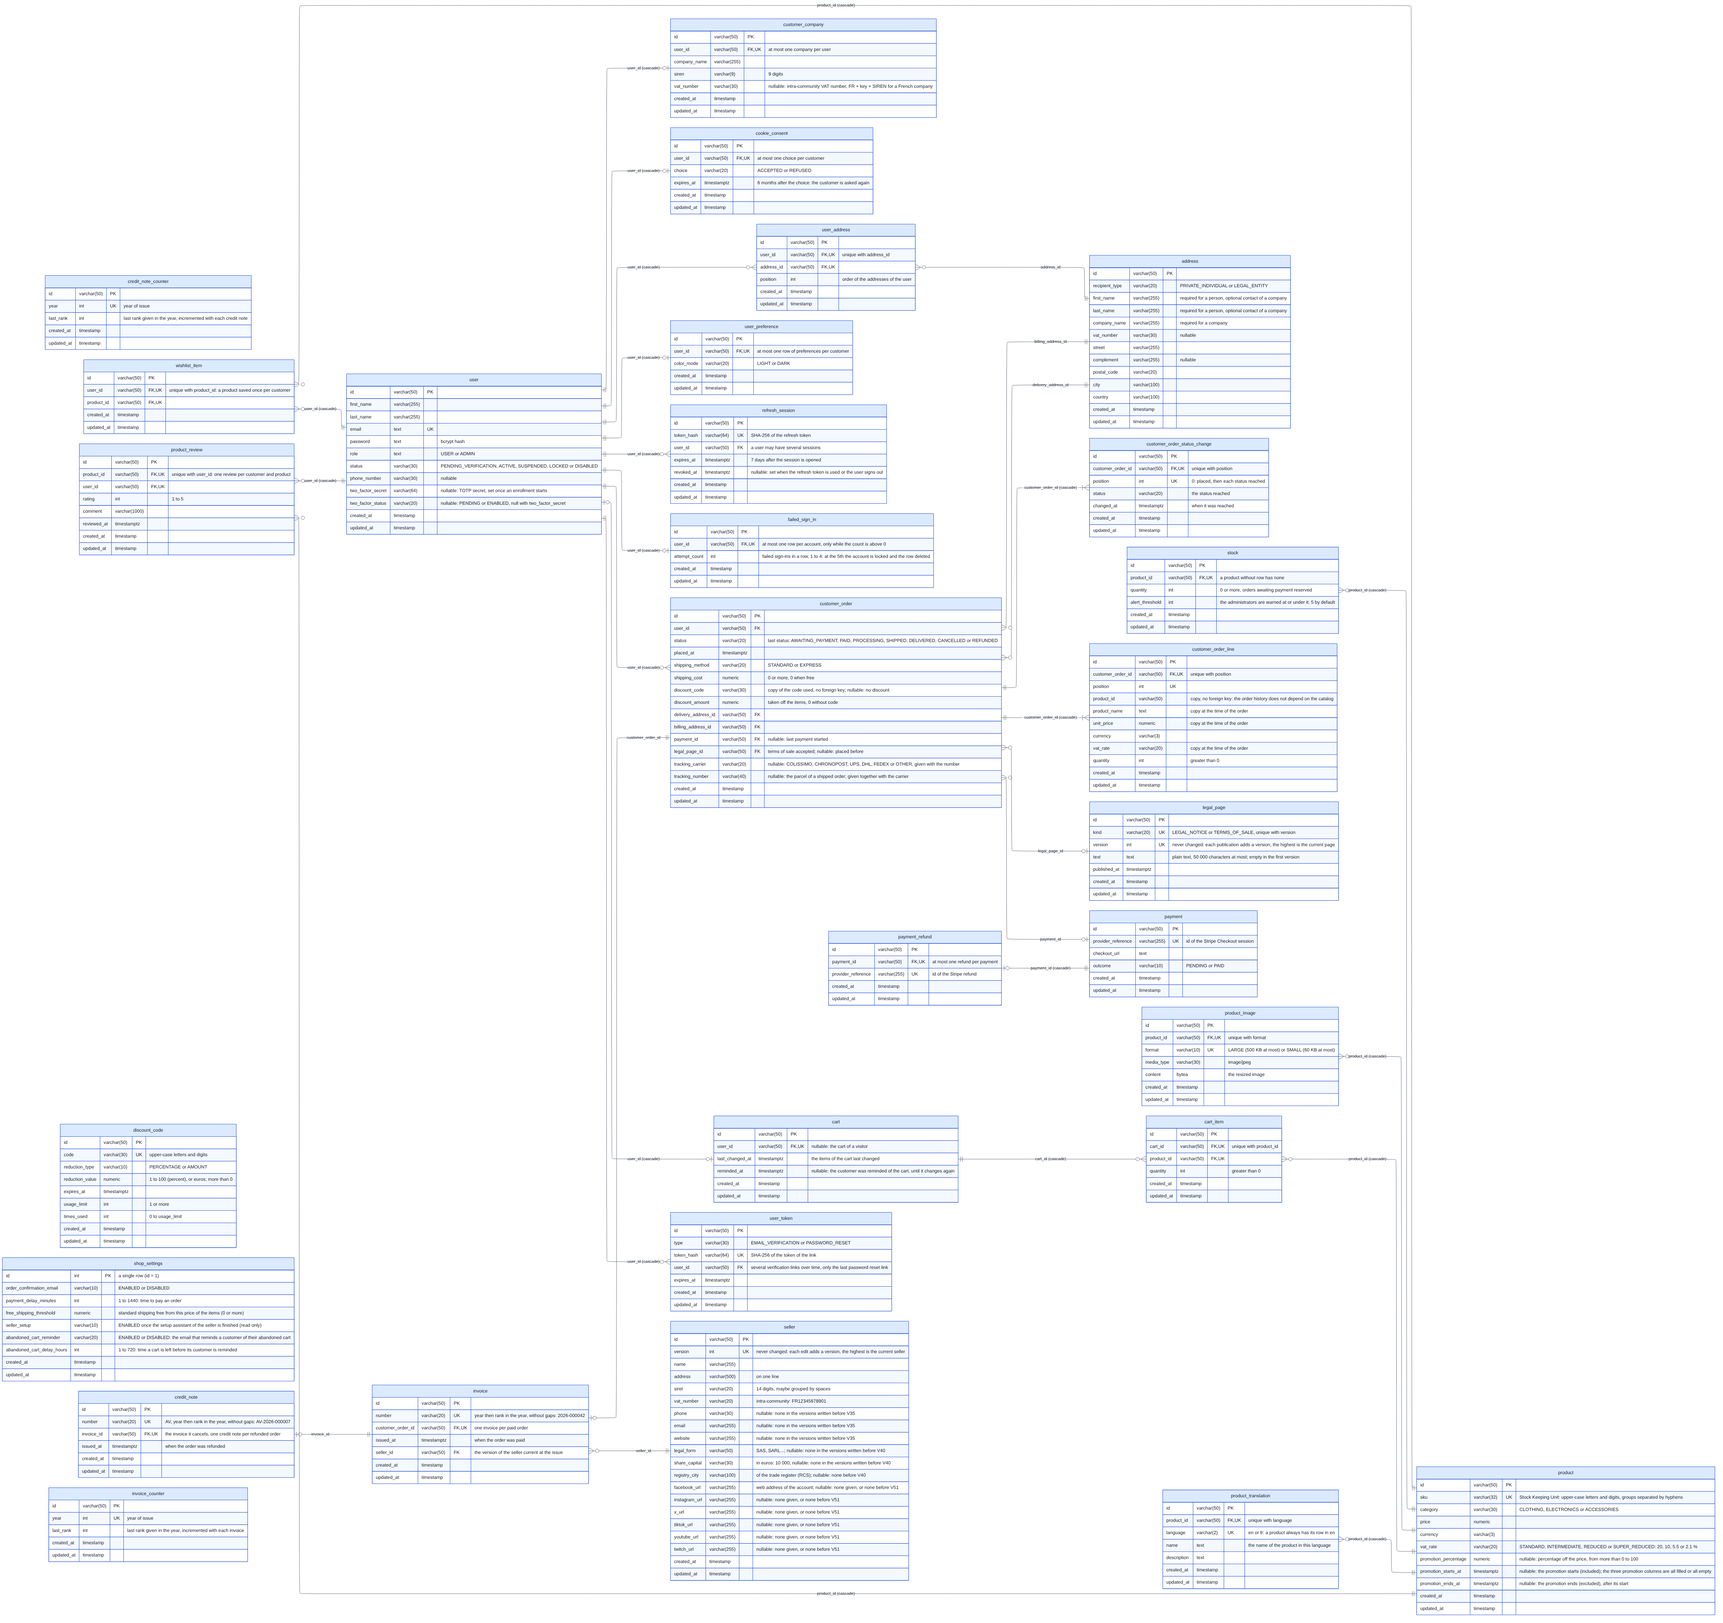
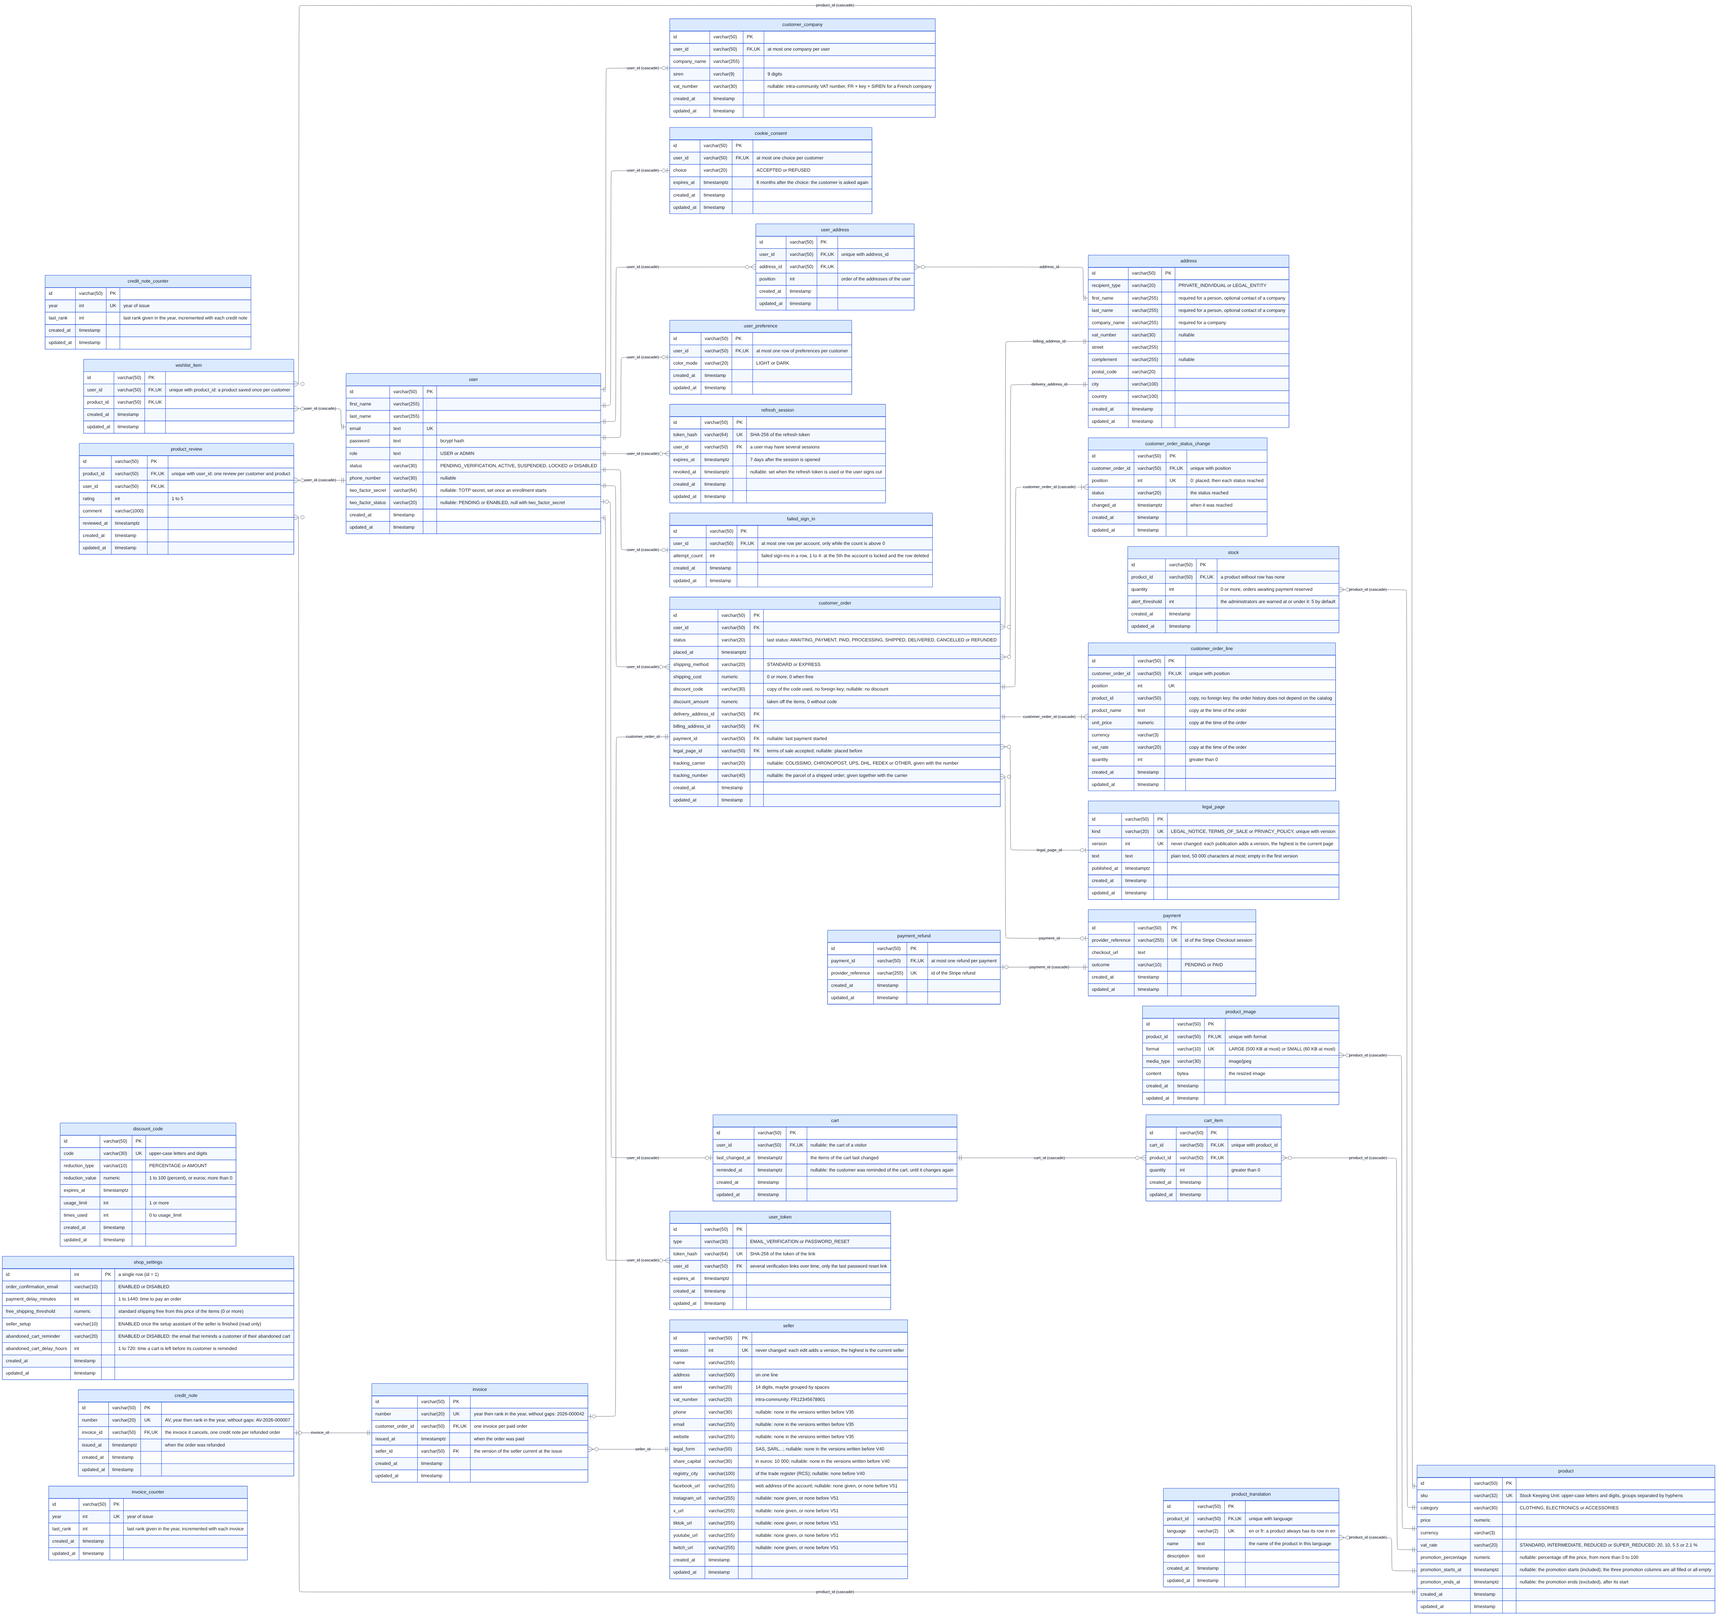
feat: add a privacy policy legal page
A third legal page beside the legal notice and the terms of sale: a
PRIVACY_POLICY kind, its migration (V55) with a standard example text, the
/privacy-policy page (/fr/politique-de-confidentialite), its footer link,
its administration, its translations and its redirects.

Claude-Session: https://claude.ai/code/session_01U9gDSadDaFnq4vvVzeNXdf

diff --git a/front/src/i18n/messages.ts b/front/src/i18n/messages.ts
@@ -32,7 +32,7 @@ export default {
       settingsText: 'Turn the features of the shop on or off.',
       environmentText: 'Check which environment variables of the back end are defined.',
       sellerText: 'Edit the shop as written on its invoices: its name, address, SIRET and VAT number.',
-      legalPagesText: 'Write the legal notice and the terms of sale of the shop.',
+      legalPagesText: 'Write the legal notice, the terms of sale and the privacy policy of the shop.',
     },
     environment: {
       title: 'Environment',
@@ -171,7 +171,7 @@ export default {
           },
           discountCodes: { title: 'Discount codes', text: 'Create promotional codes for your customers.' },
           seller: { title: 'Seller information', text: 'Set the identity of the shop shown on invoices.' },
-          legalPages: { title: 'Legal pages', text: 'Edit the legal notice and the terms of sale.' },
+          legalPages: { title: 'Legal pages', text: 'Edit the legal notice, the terms of sale and the privacy policy.' },
           settings: { title: 'Settings', text: 'Adjust the settings of the shop.' },
           environment: {
             title: 'Environment',
@@ -749,6 +749,7 @@ export default {
       about: 'What Flexstore is, the features of the shop and the technologies it is built with.',
       legalNotice: 'The legal notice of Flexstore: who publishes the shop and how to reach them.',
       termsOfSale: 'The terms of sale of Flexstore: prices, payment, delivery and returns.',
+      privacyPolicy: 'The privacy policy of Flexstore: which personal data is collected, why, and your rights.',
     },
     nav: {
       home: 'Home',
@@ -778,6 +779,7 @@ export default {
       legalPages: 'Legal pages',
       legalNotice: 'Legal notice',
       termsOfSale: 'Terms of sale',
+      privacyPolicy: 'Privacy policy',
       about: 'About',
       login: 'Sign in',
       signUp: 'Create an account',
@@ -790,11 +792,13 @@ export default {
     legalPages: {
       'legal-notice': { title: 'Legal notice' },
       'terms-of-sale': { title: 'Terms of sale' },
+      'privacy-policy': { title: 'Privacy policy' },
       publishedOn: 'Updated on {date}',
       notWritten: 'This page has not been written yet.',
       loadError: 'The page could not be loaded.',
       adminTitle: 'Legal pages',
-      adminSubtitle: 'The legal notice and the terms of sale of the shop, read by everyone from the footer.',
+      adminSubtitle:
+        'The legal notice, the terms of sale and the privacy policy of the shop, read by everyone from the footer.',
       textHint: 'Plain text: each line break is kept',
       required: 'Required',
       tooLong: '50,000 characters at most',
@@ -1005,7 +1009,8 @@ export default {
       environmentText: 'Vérifier quelles variables d’environnement du back end sont définies.',
       sellerText:
         'Modifier la boutique telle qu’elle figure sur ses factures : raison sociale, adresse, SIRET et TVA.',
-      legalPagesText: 'Rédiger les mentions légales et les conditions générales de vente de la boutique.',
+      legalPagesText:
+        'Rédiger les mentions légales, les conditions générales de vente et la politique de confidentialité de la boutique.',
     },
     environment: {
       title: 'Environnement',
@@ -1160,7 +1165,7 @@ export default {
           },
           legalPages: {
             title: 'Pages légales',
-            text: 'Modifiez les mentions légales et les conditions de vente.',
+            text: 'Modifiez les mentions légales, les conditions de vente et la politique de confidentialité.',
           },
           settings: { title: 'Paramètres', text: 'Ajustez les paramètres de la boutique.' },
           environment: {
@@ -1747,6 +1752,8 @@ export default {
       about: "Ce qu'est Flexstore, les fonctionnalités de la boutique et les technologies utilisées.",
       legalNotice: 'Les mentions légales de Flexstore : qui édite la boutique et comment le contacter.',
       termsOfSale: 'Les conditions générales de vente de Flexstore : prix, paiement, livraison et retours.',
+      privacyPolicy:
+        'La politique de confidentialité de Flexstore : quelles données personnelles sont collectées, pourquoi, et vos droits.',
     },
     nav: {
       home: 'Accueil',
@@ -1776,6 +1783,7 @@ export default {
       legalPages: 'Pages légales',
       legalNotice: 'Mentions légales',
       termsOfSale: 'Conditions générales de vente',
+      privacyPolicy: 'Politique de confidentialité',
       about: 'À propos',
       login: 'Se connecter',
       signUp: 'Créer un compte',
@@ -1788,12 +1796,13 @@ export default {
     legalPages: {
       'legal-notice': { title: 'Mentions légales' },
       'terms-of-sale': { title: 'Conditions générales de vente' },
+      'privacy-policy': { title: 'Politique de confidentialité' },
       publishedOn: 'Mis à jour le {date}',
       notWritten: 'Cette page n’a pas encore été rédigée.',
       loadError: 'La page n’a pas pu être chargée.',
       adminTitle: 'Pages légales',
       adminSubtitle:
-        'Les mentions légales et les conditions générales de vente de la boutique, lues par tous depuis le pied de page.',
+        'Les mentions légales, les conditions générales de vente et la politique de confidentialité de la boutique, lues par tous depuis le pied de page.',
       textHint: 'Texte brut : chaque retour à la ligne est conservé',
       required: 'Obligatoire',
       tooLong: '50 000 caractères au maximum',

diff --git a/backend/spring-infra/src/main/kotlin/org/flexstore/infra/spring/adapter/rest/LegalPageController.kt b/backend/spring-infra/src/main/kotlin/org/flexstore/infra/spring/adapter/rest/LegalPageController.kt
@@ -16,7 +16,8 @@ import org.springframework.web.bind.annotation.*
 // How each legal page is named in the paths of the API
 private val legalPageKinds = mapOf(
     "legal-notice" to LegalPageKind.LEGAL_NOTICE,
-    "terms-of-sale" to LegalPageKind.TERMS_OF_SALE
+    "terms-of-sale" to LegalPageKind.TERMS_OF_SALE,
+    "privacy-policy" to LegalPageKind.PRIVACY_POLICY
 )
 
 // The legal pages of the shop, read by everyone
@@ -25,7 +26,7 @@ private val legalPageKinds = mapOf(
 @RequestMapping("/api/legal-pages")
 class LegalPageController(private val legalPageUseCases: LegalPageUseCases) {
 
-    @Operation(summary = "Retrieve the current version of a legal page: legal-notice or terms-of-sale")
+    @Operation(summary = "Retrieve the current version of a legal page: legal-notice, terms-of-sale or privacy-policy")
     @GetMapping("/{kind}")
     fun getLegalPage(@PathVariable kind: String): ResponseEntity<JsonLegalPage> {
         val legalPageKind = legalPageKinds[kind] ?: return ResponseEntity.notFound().build()
@@ -39,7 +40,7 @@ class LegalPageController(private val legalPageUseCases: LegalPageUseCases) {
 @RequestMapping("/api/admin/legal-pages")
 class AdminLegalPageController(private val legalPageUseCases: LegalPageUseCases) {
 
-    @Operation(summary = "Publish a new version of a legal page: legal-notice or terms-of-sale")
+    @Operation(summary = "Publish a new version of a legal page: legal-notice, terms-of-sale or privacy-policy")
     @PutMapping("/{kind}")
     fun publishLegalPage(
         @AuthenticationPrincipal publisher: Jwt,

diff --git a/front/src/utils/language.ts b/front/src/utils/language.ts
@@ -8,7 +8,7 @@ export const MAIN_LANGUAGE: ShopLanguage = 'fr';
 export const PAGE_LANGUAGES: ShopLanguage[] = ['fr', 'en'];
 
 // The pages that exist in each language: the others (cart, account, administration...) follow the chosen one
-const TRANSLATED_AREAS = ['/products', '/about', '/legal-notice', '/terms-of-sale'];
+const TRANSLATED_AREAS = ['/products', '/about', '/legal-notice', '/terms-of-sale', '/privacy-policy'];
 
 // The words of an address that change with the language, without accent (/fr/produits/vetements,
 // /en/products/clothing). The addresses of the application use the English words; the others are only seen by
@@ -19,6 +19,7 @@ const ADDRESS_WORDS: Record<ShopLanguage, Record<string, string>> = {
     about: 'a-propos',
     'legal-notice': 'mentions-legales',
     'terms-of-sale': 'conditions-generales-de-vente',
+    'privacy-policy': 'politique-de-confidentialite',
     clothing: 'vetements',
     accessories: 'accessoires',
     electronics: 'electronique',

diff --git a/backend/spring-infra/src/test/kotlin/org/flexstore/infra/spring/rest/LegalPageIT.kt b/backend/spring-infra/src/test/kotlin/org/flexstore/infra/spring/rest/LegalPageIT.kt
@@ -75,6 +75,17 @@ class LegalPageIT {
     }
 
     @Test
+    fun `a visitor should read the standard privacy policy, written with the seller of the shop`() {
+        // Act
+        val response = mockMvc.perform(get("/api/legal-pages/privacy-policy"))
+        // Assert
+        response.andExpect(status().isOk)
+            .andExpect(jsonPath("$.kind").value("PRIVACY_POLICY"))
+            .andExpect(jsonPath("$.text").value(containsString("POLITIQUE DE CONFIDENTIALITÉ")))
+            .andExpect(jsonPath("$.text").value(containsString("traitées par Flexstore SAS")))
+    }
+
+    @Test
     fun `an unknown legal page should not be found`() {
         // Act
         val response = mockMvc.perform(get("/api/legal-pages/privacy"))

diff --git a/front/src/components/layout/AppFooter.spec.ts b/front/src/components/layout/AppFooter.spec.ts
@@ -39,11 +39,11 @@ describe('AppFooter.vue', () => {
     expect(linkTargets(wrapper)).not.toContain('/user-profile');
   });
 
-  it('everyone has the links to the legal notice and the terms of sale', () => {
+  it('everyone has the links to the legal notice, the terms of sale and the privacy policy', () => {
     // Act
     const wrapper = mountFooter();
     // Assert
-    expect(linkTargets(wrapper)).toEqual(expect.arrayContaining(['/legal-notice', '/terms-of-sale']));
+    expect(linkTargets(wrapper)).toEqual(expect.arrayContaining(['/legal-notice', '/terms-of-sale', '/privacy-policy']));
   });
 
   it('a signed-in customer has the links to their orders and their account', async () => {

diff --git a/backend/domain/src/main/kotlin/org/flexstore/domain/legal/LegalPage.kt b/backend/domain/src/main/kotlin/org/flexstore/domain/legal/LegalPage.kt
@@ -7,8 +7,9 @@ import org.flexstore.domain.user.model.UserId
 import org.ucop.domain.ErrorMessage
 import org.ucop.domain.NominalException
 
-// The legal pages of the shop, written by the administrators: its legal notice and its terms of sale
-enum class LegalPageKind { LEGAL_NOTICE, TERMS_OF_SALE }
+// The legal pages of the shop, written by the administrators: its legal notice, its terms of sale and its
+// privacy policy
+enum class LegalPageKind { LEGAL_NOTICE, TERMS_OF_SALE, PRIVACY_POLICY }
 
 // One version of a legal page: each publication gives a new one, the ones before are kept
 data class LegalPageId(val value: Identity) {

diff --git a/front/src/routes.ts b/front/src/routes.ts
@@ -177,6 +177,12 @@ const shopRoutes: RouteRecordRaw[] = [
     props: { kind: 'terms-of-sale' },
     meta: { title: 'nav.termsOfSale', description: 'seo.termsOfSale', indexed: true },
   },
+  {
+    path: '/privacy-policy',
+    component: LegalPage,
+    props: { kind: 'privacy-policy' },
+    meta: { title: 'nav.privacyPolicy', description: 'seo.privacyPolicy', indexed: true },
+  },
 ];
 
 const publicRoutes = shopRoutes.filter((route) => route.meta?.indexed);

diff --git a/front/src/utils/language.spec.ts b/front/src/utils/language.spec.ts
@@ -86,6 +86,8 @@ describe('localizedPath', () => {
     ['/about', 'fr', '/fr/a-propos'],
     ['/legal-notice', 'fr', '/fr/mentions-legales'],
     ['/terms-of-sale', 'fr', '/fr/conditions-generales-de-vente'],
+    ['/privacy-policy', 'fr', '/fr/politique-de-confidentialite'],
+    ['/fr/politique-de-confidentialite', 'en', '/en/privacy-policy'],
     ['/en', 'fr', '/fr'],
   ] as const)('%s in %s is %s', (path, language, localized) => {
     // Act

diff --git a/front/src/components/admin/legal/AdminLegalPages.vue b/front/src/components/admin/legal/AdminLegalPages.vue
@@ -8,7 +8,7 @@
   const { t } = useI18n();
   const legalPagesStore = useLegalPagesStore();
 
-  const kinds: LegalPageKind[] = ['legal-notice', 'terms-of-sale'];
+  const kinds: LegalPageKind[] = ['legal-notice', 'terms-of-sale', 'privacy-policy'];
 
   onMounted(() => {
     kinds.forEach((kind) => legalPagesStore.fetchLegalPage(kind));

diff --git a/front/src/components/menu/navigation.ts b/front/src/components/menu/navigation.ts
@@ -23,6 +23,7 @@ export function accountLinksOf(signedIn: boolean) {
 export const legalLinks = [
   { to: '/legal-notice', label: 'nav.legalNotice' },
   { to: '/terms-of-sale', label: 'nav.termsOfSale' },
+  { to: '/privacy-policy', label: 'nav.privacyPolicy' },
 ];
 
 export const adminLinks = [

diff --git a/backend/spring-infra/src/main/kotlin/org/flexstore/infra/spring/adapter/persistence/jpa/entity/LegalPageEntity.kt b/backend/spring-infra/src/main/kotlin/org/flexstore/infra/spring/adapter/persistence/jpa/entity/LegalPageEntity.kt
@@ -11,7 +11,7 @@ data class LegalPageEntity(
     @Id
     val id: String,
 
-    // LEGAL_NOTICE or TERMS_OF_SALE
+    // LEGAL_NOTICE, TERMS_OF_SALE or PRIVACY_POLICY
     @Column(nullable = false, updatable = false)
     val kind: String,
 

diff --git a/docs/database.md b/docs/database.md
@@ -179,7 +179,7 @@ erDiagram
 
     legal_page {
         id varchar(50) PK
-        kind varchar(20) UK "LEGAL_NOTICE or TERMS_OF_SALE, unique with version"
+        kind varchar(20) UK "LEGAL_NOTICE, TERMS_OF_SALE or PRIVACY_POLICY, unique with version"
         version int UK "never changed: each publication adds a version, the highest is the current page"
         text text "plain text, 50 000 characters at most; empty in the first version"
         published_at timestamptz
@@ -375,7 +375,7 @@ erDiagram
 - An `address` belongs to no user: the users refer to their addresses through `user_address`, the orders through `delivery_address_id` and `billing_address_id`. Editing an address creates a new row, removing it from a user deletes only its `user_address` row: an order always keeps the address it was delivered and billed to.
 - The `seller` written on the invoices is edited by the administrators. Each edit adds a version and never changes one: an `invoice` references the version current when it was issued, so that it keeps the seller it was issued with. Its legal form, its share capital and the city of its trade register are asked since V40, which adds a version of the demonstration seller with them while it is still the current one; the versions written before have none. Its accounts on the social networks (Facebook, Instagram, X, TikTok, YouTube, Twitch) are asked since V51, each one optional: the footer of the shop shows the ones that are given, and the versions written before have none.
 - A `credit_note` cancels the `invoice` of a refunded order, and is written with the seller of that invoice. The credit notes have their own sequence of numbers (`credit_note_counter`), as the invoices; V39 issues the credit notes of the orders refunded before it, dated when they were refunded.
-- The `legal_page` rows are the legal notice and the terms of sale of the shop, written by the administrators and read by everyone. Each publication adds a version of its kind and never changes one, so that the terms of sale of a given date can be found again. The migration creates a first, empty version of each kind; V38 adds a standard version of each one, written with the current seller, while its current version is still empty. An order keeps the version of the terms of sale its customer accepted (`legal_page_id`); the orders placed before V37 have none.
+- The `legal_page` rows are the legal notice, the terms of sale and the privacy policy of the shop, written by the administrators and read by everyone. Each publication adds a version of its kind and never changes one, so that the terms of sale of a given date can be found again. The migration creates a first, empty version of each kind; V38 adds a standard version of each one, written with the current seller, while its current version is still empty. V55 adds the privacy policy: a first, empty version, then its standard version, in the same way. An order keeps the version of the terms of sale its customer accepted (`legal_page_id`); the orders placed before V37 have none.
 - A customer who creates their account for their company gives it once: its `customer_company` row (name, SIREN, VAT number). The address they give is then addressed to the company, for their attention (`address.recipient_type` `LEGAL_ENTITY`, with the company name and the VAT number).
 - A signed-in customer's choice about the preference cookies is one `cookie_consent` row, replaced by each new choice and valid until `expires_at` (6 months after the choice). A visitor who is not signed in keeps theirs in their browser; at sign-in it is recorded here and removed from the browser.
 - A signed-in customer's display mode (light or dark) is kept in their `user_preference` row (column `color_mode`), created by their first choice and replaced by each new one; a customer who never chose has no row, and their browser decides. A visitor who is not signed in keeps theirs in their browser (when they accepted the preference cookies).
